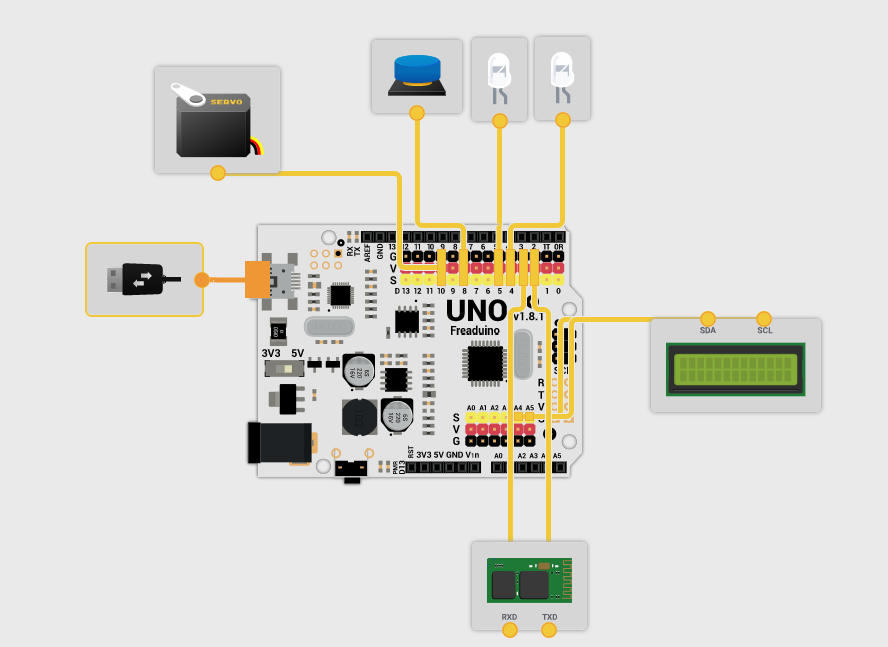
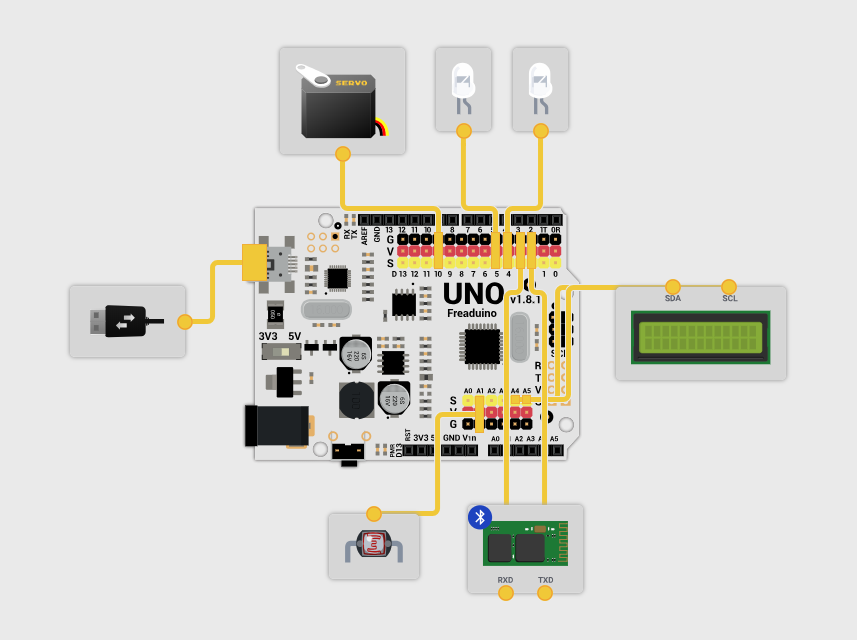
Updated documentation

Changed region(s): [[0.091, 0.0625, 0.9102, 1.0]]

diff --git a/arduino/README.md b/arduino/README.md
@@ -30,15 +30,21 @@ Connection of the OLED screen 0.96 I2C SPI CII 128x64
 ## The Script (.ino)
 
 This program wait for a RFID token, then send to Raspberry PI via Serial and if the user associated with this RFID has sufficient points, moves servo to unlock a door.
-Upon the door is closed, which is detected when button is pressed, turns a LED on.
+Upon the door is closed, which is detected with a light sensor, turns a LED on.
 
 Data is exchanged in JSON format.
 
 There are these types of messages:
+
 {"type":"status","code":"init"} // Inform the raspberry that the arduino is initializing
-{"type":"status","code":"ready"} // Inform the raspberry that the arduino is ready
+
+{"type":"status","code":"ready"} // Inform the raspberry that the arduino is ready to read a new RFID
+
 {"type":"status","code":"waiting"} // Inform the raspberry that the arduino is waiting for a response
+
 {"type":"request","params":{ "rfid": "0x0000000000"}} // Send a request to raspberry to obtain info about a RFID
-{"type":"response","result":{ "rfid": "0x0000000000", "points": 100}} // Response received from raspberry with points associated to a RFID
-{"type":"response","result":{ "rfid": "0x0000000000", "pin": 1234}} // Response received from raspberry with pin associated to a RFID
+
+{"type":"response","result":{ "rfid": "0x0000000000", "points": 100, "openVault": true|false, "active": true|false, "message": "Message to display"}} // Response received from raspberry with points associated to a RFID
+
+{"type":"response","result":{ "rfid": "0x0000000000", "pin": 1234, "openVault": true|false, "active": true|false, "message": "Message to display"}} // Response received from raspberry with pin associated to a RFID
 
